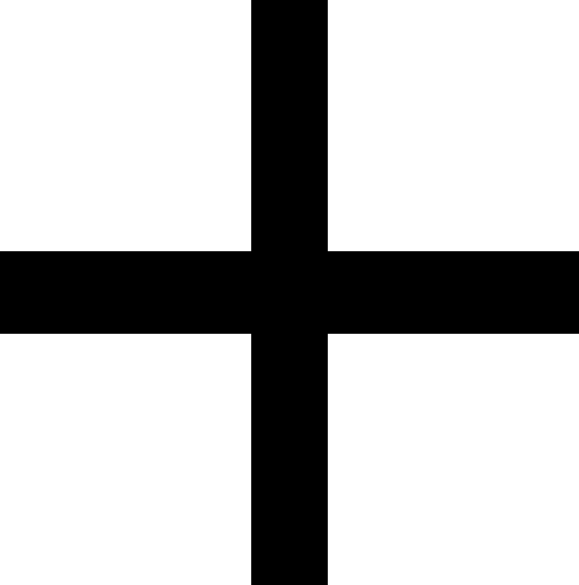
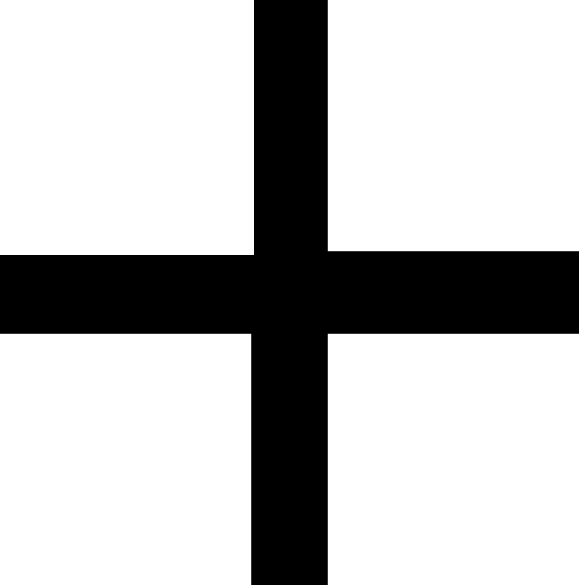
Visual stimulus changes

Changed region(s): [[0.0, 0.0, 0.4663, 0.4615]]

diff --git a/src/containers/VisualStimulus.js b/src/containers/VisualStimulus.js
@@ -7,11 +7,17 @@ import RATINGS_2_SRC from "../media/rating_2.png";
 import RATINGS_3_SRC from "../media/rating_3.png";
 import RATINGS_4_SRC from "../media/rating_4.png";
 import RATINGS_5_SRC from "../media/rating_5.png";
+import './Trial.css';
 
 var _ = require('lodash');
 var SimplexNoise = require('simplex-noise');
 
 const IMG_SRC = "https://raw.githubusercontent.com/PowersLab1/VCH_APP_SMITH/master/src/media/fix_cross.png";
+const CANVAS_LENGTH = 320;
+
+var stim = createStim();
+var stimulus_blank = createGabor(stim, 0);
+console.log("Stim created");
 
 class VisualStimulus extends Component {
   constructor(props) {
@@ -27,14 +33,15 @@ class VisualStimulus extends Component {
       data = imgdata.data,
       t = 0; // t is used to generate noise over time
 
-    var stim = createStim();
-    var stimulus_blank = createGabor(stim, 0);
+
     var stimulus = undefined;
+    var stimulusWithAlpha = undefined;
     var that = this;
+    var c = stim.alpha * stimulus_blank[0];
 
     function nextFrame() {
-      for (var x = 0; x < 256; x++) {
-        for (var y = 0; y < 256; y++) {
+      for (var x = 0; x < CANVAS_LENGTH; x++) {
+        for (var y = 0; y < CANVAS_LENGTH; y++) {
           if (that.props.showContrast && that.props.contrast !== 0) {
             // Populate stimulus data if we don't have it already
             if (_.isUndefined(stimulus)) {
@@ -47,29 +54,30 @@ class VisualStimulus extends Component {
               }
             }
 
-            const r = simplex.noise3D(x / 8, y / 8, t / 8) * 0.4 + 0.35;
-            data[(x + y * 256) * 4 + 0] = stim.alpha * stimulus[(x + y * 256) * 4 + 0] + (1 - stim.alpha) * r * 250;
-            data[(x + y * 256) * 4 + 1] = stim.alpha * stimulus[(x + y * 256) * 4 + 1] + (1 - stim.alpha) * r * 250;
-            data[(x + y * 256) * 4 + 2] = stim.alpha * stimulus[(x + y * 256) * 4 + 2] + (1 - stim.alpha) * r * 250;
-            data[(x + y * 256) * 4 + 3] = 255;
+            const r = simplex.noise3D(x / 8, y / 8, t/5) * .8  + 0.65;
+
+            data[(x + y * CANVAS_LENGTH) * 4 + 0] = stim.alpha * stimulus[(x + y * CANVAS_LENGTH) * 4 + 0] + (1 - stim.alpha) * r * 250;
+            data[(x + y * CANVAS_LENGTH) * 4 + 1] = stim.alpha * stimulus[(x + y * CANVAS_LENGTH) * 4 + 1] + (1 - stim.alpha) * r * 250;
+            data[(x + y * CANVAS_LENGTH) * 4 + 2] = stim.alpha * stimulus[(x + y * CANVAS_LENGTH) * 4 + 2] + (1 - stim.alpha) * r * 250;
+            data[(x + y * CANVAS_LENGTH) * 4 + 3] = 255;
           } else {
             // Technically we only need reset this once, but it's relatively inexpensive
             // and convenient so we do it here.
             stimulus = undefined;
 
-            const r = simplex.noise3D(x / 8, y / 8, t / 8) * 0.4 + 0.35;
-            data[(x + y * 256) * 4 + 0] = stim.alpha * stimulus_blank[(x + y * 256) * 4 + 0] + (1 - stim.alpha) * r * 250;
-            data[(x + y * 256) * 4 + 1] = stim.alpha * stimulus_blank[(x + y * 256) * 4 + 1] + (1 - stim.alpha) * r * 250;
-            data[(x + y * 256) * 4 + 2] = stim.alpha * stimulus_blank[(x + y * 256) * 4 + 2] + (1 - stim.alpha) * r * 250;
-            data[(x + y * 256) * 4 + 3] = 255;
+            const r = simplex.noise3D(x / 8, y / 8, t/5) * .8  + 0.65;
+
+            const val = c + (1 - stim.alpha) * r * 250;
+            data[(x + y * CANVAS_LENGTH) * 4 + 0] = val;
+            data[(x + y * CANVAS_LENGTH) * 4 + 1] = val;
+            data[(x + y * CANVAS_LENGTH) * 4 + 2] = val;
+            data[(x + y * CANVAS_LENGTH) * 4 + 3] = 255;
           }
         }
       }
 
       ctx.putImageData(imgdata, 0, 0);
 
-      const img = new Image();
-      img.src = IMG_SRC;
       const rectWidth = canvas.width / 8;
       const rectHeight = canvas.height / 8;
       ctx.fillStyle = "gray";
@@ -78,7 +86,6 @@ class VisualStimulus extends Component {
       var yPos = (canvas.height / 2) - (rectHeight / 2);
 
       ctx.fillRect(xPos, yPos, rectWidth, rectHeight);
-      ctx.drawImage(img, xPos, yPos, rectWidth, rectHeight);
 
       // Render next frame
       that.animationFrameId = window.requestAnimationFrame(nextFrame);
@@ -100,41 +107,41 @@ class VisualStimulus extends Component {
   render() {
     return (
       <div>
-        <img src={RATINGS_SRC} width="256" height="256" style={
+        <img src={RATINGS_SRC} width={CANVAS_LENGTH} height={CANVAS_LENGTH} class="center"
+        style={
           {
-            zIndex: 10,
-            position: "relative",
-            width: '50%',
-            height: '50%',
-            marginTop: '12vw',
-            backgroundColor: "#A8A8A8",
+            zIndex: 101,
+            width: '80vh',
+            height: '40vh',
+            backgroundColor: "#9e9e9e",
             visibility: this.props.showRatings ? 'visible' : 'hidden',
           }
          }
         />
-        <div width="256" height="256" style={
+        <div style={
           {
-            zIndex:9,
+            zIndex: 100,
+            backgroundColor: "#9e9e9e",
+            width: "100%",
+            height: "100%",
             position: "fixed",
-            left: "25%",
             top: 0,
-            width: '50vw',
-            height: '50vw',
-            background: "#A8A8A8",
+            left: 0,
             visibility: this.props.showRatings ? 'visible' : 'hidden',
           }
-        }></div>
-        <canvas id="c" width="256" height="256"
+         }
+        ></div>
+        <canvas id="c" width={CANVAS_LENGTH} height={CANVAS_LENGTH} class="center clip-circle blur"
           style={
             {
               zIndex:1,
-              position: "fixed",
-              left: "25%",
-              width: '50vw',
-              height: '50vw',
-              top: 0,
+              width: '80vh',
+              height: '80',
             }
           }></canvas>
+        <div class="center circle" style={{zIndex: 3}}></div>
+        <div class="center cross-1" style={{zIndex: 10}}></div>
+        <div class="center cross-2" style={{zIndex: 10}}></div>
 
       </div>
     );

diff --git a/src/containers/Trial.css b/src/containers/Trial.css
@@ -1,9 +1,17 @@
+
 .Trial {
-    text-align: center;
+    position: fixed;
+    height: 100%;
+    width: 100%;
+}
+
+  .Trial-gray {
+    background-color: #9e9e9e;
   }
 
+
   .Trial-header {
-    background-color: #808080;
+    background-color: #9e9e9e;
     min-height: 100vh;
     display: flex;
     flex-direction: column;
@@ -20,6 +28,7 @@
   }
 
   .Trial-text{
+    text-align: center;
     margin-top: 10%;
     justify-content: center;
     margin-left: auto;
@@ -29,6 +38,7 @@
 
 
   .Trial-progress{
+    text-align: center;
     margin-top: calc(20vw - 30px);
     justify-content: center;
     margin-left: auto;
@@ -36,7 +46,8 @@
     font-size: calc(10px + 2vmin);
   }
 
-  .bigger{
+
+  .beigger{
     font-size: 150%;
     font-weight: bold;
   }
@@ -48,3 +59,46 @@
     top: 2%;
     left: 2%;
   }
+
+.center {
+  margin: 0;
+  position: absolute;
+  top: 50%;
+  left: 50%;
+  -ms-transform: translate(-50%, -50%);
+  transform: translate(-50%, -50%);
+}
+
+.clip-circle {
+  clip-path: circle(50% at center);
+  /* OLD VALUE example: circle(245px, 140px, 50px); */
+  /* Yep, even the new clip-path has deprecated stuff. */
+}
+
+.blur {
+  filter: blur(5px);
+  -webkit-filter: blur(5px);
+  -moz-filter: blur(5px);
+  -o-filter: blur(5px);
+  -ms-filter: blur(5px);
+}
+
+.circle {
+    background: #9e9e9e;
+    width: 14vh;
+    height: 14vh;
+    border-radius: 50%;
+    box-shadow: 0 0 10px 10px #9e9e9e;
+}
+
+.cross-1 {
+  width: 8vh;
+  height: 2px;
+  background: white;
+}
+
+.cross-2 {
+  width: 2px;
+  height: 8vh;
+  background: white;
+}

diff --git a/src/containers/Trial.js b/src/containers/Trial.js
@@ -57,7 +57,7 @@ class Trial extends Component {
     this.canvasRef = React.createRef();
     this.audioContext = new AudioContext();
     this.initialDelay = 2000; // time until first stimulus, in ms
-    this.delay = 3000; // time in between stimuli, in ms
+    this.delay = 2500; // time in between stimuli, in ms
     this.numAttempts = 0;
     this.numAttemptsLimit = 100;
 
@@ -212,22 +212,23 @@ class Trial extends Component {
     }
 
     return (
-      <div className="Trial">
+      <div className={"Trial " + (this.state.trialStarted ? "Trial-gray" : "")}>
         {this.state.trialStarted ? (
-          <div>
+          <div className="Trial-stimulus">
             <VisualStimulus
               showContrast={this.state.showContrast}
               showRatings={this.state.ratingWindow}
               contrast={this.state.contrast}
               precomputedGabor={this.precomputedGabors[this.state.index]}
             />
+            /*
             <p className="Trial-progress">
               {this.state.index == this.props.contrasts.length ? (
                 <span>Complete. Please wait...</span>
               ) : (
                 <span></span> //<span>#{this.state.index + 1}</span>
               )}
-            </p>
+            </p>*/
           </div>
         ) : (
 

diff --git a/src/lib/Stim.js b/src/lib/Stim.js
@@ -3,13 +3,13 @@ export function createStim() {
   var stim = {
     background: 255/2,
     angle: Math.floor(Math.random() * 135) + 45,   // returns a random integer from 45 to 135
-    imsize: 256,
+    imsize: 320,
     initcontrast:  0.5,                  // initial contrast
     threshold:     0.2,                  // moch treshold
     phases: [0, 0.25],                   // phases either 0 and 0.25
     phase: 0,
     alpha: 0.5,
-    ppd: 160,
+    ppd: 80,
     frequency: 0,                  // gabor spatial frequency
   }
 
@@ -55,7 +55,7 @@ export function createGabor(stim, contrast) {
 }
 
 //this blends the two layers
-export function blendfun(alpha, a, b) {
+export function blend(alpha, a, b) {
   var stimulusArr = [];
 
   for (var x = 0; x < a.length && x < b.length; x++){
